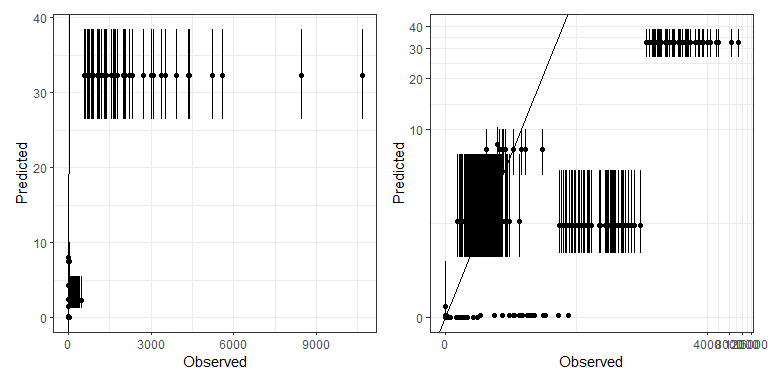
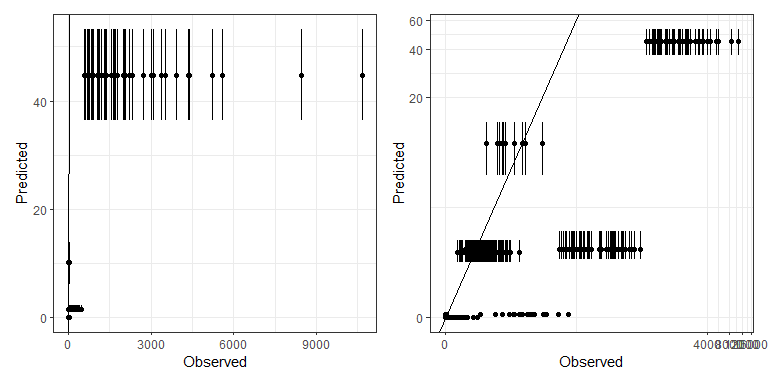
incremental update

diff --git a/analysis/soil/validation/reports/rendered/progress_report.md b/analysis/soil/validation/reports/rendered/progress_report.md
@@ -1,14 +1,17 @@
 # Soil–Litter validation progress report
 
 Lai, Hao Ran
-2026-10-07
+2026-10-16
 
-## Overview
+## Progress over the past few months
 
-- Ran the `maliau_2` scenario with VE version v0.2.1
 - Built a validation database pipeline, see docs
   [here](https://github.com/ImperialCollegeLondon/ve_data_science/blob/main/docs/validation_database.md).
 - Screened, add and harmonise datasets using the database functions.
+- I did not limit datasets to only Maliau or old growth. I included SAFE
+  and disturbed forests since we are going to need them in future
+  scenarios. The database has spatial coordinates to filter what we need
+  (can be combined with all sorts of GIS layer, including SAFE layers).
 - Most effort went into harmonisation, including units and derived
   variables.
 
@@ -22,12 +25,41 @@ library(toml)
 library(here)
 library(yardstick)
 source(here("tools/R/R/valdb.R"))
+source(here("tools/R/R/summarise_ve_config.R"))
 
 # Read the validation database
 val_db_combined <-
   open_dataset(here("data/derived/soil/validation/database_combined")) |>
   collect()
 ```
+
+## Simulation settings
+
+``` r
+out_dir <- here("data/scenarios/maliau/maliau_2/out")
+invisible(summarise_ve_config(
+  file.path(out_dir, "compiled_configuration.toml"),
+  file.path(out_dir, "logfile.log")
+))
+```
+
+- **VE version**: v0.2.3
+- **Models**: AbioticSimple, Hydrology, Animal, Plants, Soil, Litter
+- **Grid**: 10 x 10 cells
+- **Resolution**: 100 m
+- **Extent (bbox)**: xmin: 495559.3 ymin: 524298.8 xmax: 496559.3 ymax:
+  525298.8
+- **Time period**: start 2010-01-01, length 11 years, update interval 1
+  month
+- **Input files**:
+  - `era5_maliau_10x10_2010_2020.nc`
+  - `elevation_maliau_10x10.nc`
+  - `plant_input_data_maliau_2.nc`
+  - `soil_maliau.nc`
+  - `litter_maliau.nc`
+  - `animal_functional_groups_Maliau_level3.csv`
+  - `plant_pft_definitions_maliau_2.csv`
+  - `cohort_data_1_cm_maliau_2.csv`
 
 ## Datasets included
 
@@ -86,10 +118,10 @@ p_within_spatial <- val_db_combined$spatial_join_class |>
   pluck("within")
 ```
 
-I screened a total of 103 datasets or literature, and obtained 8 that
+I screened a total of 103 datasets or literature, and obtained 10 that
 can be included into the validation database. The included datasets
-contained a total of 1778 data points. 100% of data points fall within
-the simulation’s temporal range, but only 1.2% fall within the spatial
+contained a total of 3750 data points. 100% of data points fall within
+the simulation’s temporal range, but only 0.3% fall within the spatial
 extent of Maliau 2.
 
 ## Where datasets come from
@@ -176,7 +208,7 @@ is not to scale.
 
 ## Why many screened datasets are excluded / deferred
 
-The remaining 95 are split into **57 excluded** and **35 deferred** due
+The remaining 93 are split into **57 excluded** and **35 deferred** due
 to technical or scope reasons documented in the YAML `notes` field.
 
 | Group | Reason | No. datasets | Descriptions |
@@ -198,32 +230,43 @@ val_db_combined |>
     n_obs = n(),
     min_val = min(value_canonical, na.rm = TRUE),
     max_val = max(value_canonical, na.rm = TRUE),
+    # Span uses positive values only, since zeros have no log
+    oom_span = log10(max_val / min(value_canonical[value_canonical > 0])),
     .groups = "drop"
   ) |>
   arrange(desc(n_obs)) |>
+  mutate(oom_span = round(oom_span, 1)) |>
   select(
     Variable = var_canonical,
     N = n_obs,
     Unit = unit_canonical,
     Min = min_val,
-    Max = max_val
+    Max = max_val,
+    `Orders of magnitude` = oom_span
   ) |>
   kable()
 ```
 
-| Variable                       |   N | Unit     |         Min |          Max |
-|:-------------------------------|----:|:---------|------------:|-------------:|
-| total_soil_n_per_volume        | 353 | kg m^-3  |   0.4771187 | 4.819000e+02 |
-| soil_n_pool_ammonium_per_mass  | 302 | kg kg^-1 |   0.0000000 | 4.584000e-04 |
-| soil_n_pool_nitrate_per_mass   | 302 | kg kg^-1 |   0.0000000 | 2.480000e-05 |
-| soil_p_pool_labile_per_mass    | 300 | kg kg^-1 |   0.0000017 | 3.290000e-05 |
-| dissolved_phosphorus           | 297 | kg m^-3  |   0.0009088 | 4.888383e-01 |
-| total_soil_c_per_mass          |  67 | kg kg^-1 |   0.0034059 | 4.764000e+01 |
-| total_soil_n_per_mass          |  67 | kg kg^-1 |   0.0002437 | 1.770000e+00 |
-| total_soil_c_per_volume        |  56 | kg m^-3  | 584.2000000 | 1.065060e+04 |
-| total_soil_p_per_mass          |  20 | kg kg^-1 |   0.0000064 | 8.912000e-04 |
-| total_soil_c_per_area          |  11 | kg m^-2  |   2.6540000 | 2.052900e+01 |
-| soil_n_pool_inorganic_per_area |   3 | kg m^-2  |   0.0003300 | 1.930000e-03 |
+| Variable | N | Unit | Min | Max | Orders of magnitude |
+|:---|---:|:---|---:|---:|---:|
+| soil_respiration_CO2_mass | 974 | kg m-2 day-1 | -0.0097649 | 1.805760e-02 | 2.7 |
+| soil_nitrous_oxide_emission_N2O_mass | 973 | kg m-2 day-1 | -0.0000038 | 4.300000e-05 | 4.3 |
+| total_soil_n_per_volume | 353 | kg m^-3 | 0.4771187 | 4.819000e+02 | 3.0 |
+| soil_n_pool_ammonium_per_mass | 302 | kg kg^-1 | 0.0000000 | 4.584000e-04 | 5.1 |
+| soil_n_pool_nitrate_per_mass | 302 | kg kg^-1 | 0.0000000 | 2.480000e-05 | 3.9 |
+| soil_p_pool_labile_per_mass | 300 | kg kg^-1 | 0.0000017 | 3.290000e-05 | 1.3 |
+| dissolved_phosphorus | 297 | kg m^-3 | 0.0009088 | 4.888383e-01 | 2.7 |
+| total_soil_c_per_mass | 67 | kg kg^-1 | 0.0034059 | 4.764000e+01 | 4.1 |
+| total_soil_n_per_mass | 67 | kg kg^-1 | 0.0002437 | 1.770000e+00 | 3.9 |
+| total_soil_c_per_volume | 56 | kg m^-3 | 584.2000000 | 1.065060e+04 | 1.3 |
+| total_soil_p_per_mass | 20 | kg kg^-1 | 0.0000064 | 8.912000e-04 | 2.1 |
+| soil_respiration_CO2_molar | 14 | mol m-2 day-1 | 0.2090970 | 5.262030e-01 | 0.4 |
+| soil_respiration | 11 | kg m-2 day-1 | 0.0028283 | 4.085000e-03 | 0.2 |
+| total_soil_c_per_area | 11 | kg m^-2 | 2.6540000 | 2.052900e+01 | 0.9 |
+| soil_n_pool_inorganic_per_area | 3 | kg m^-2 | 0.0003300 | 1.930000e-03 | 0.8 |
+
+\*Orders of magnitude = $\log_{10}$(max / smallest positive value);
+zeros are ignored. `Inf`/`NA` means no positive values.
 
 ## Model performance
 
@@ -317,27 +360,37 @@ metrics_table |>
   kable()
 ```
 
-| var_canonical                  | rmse_relative | mae      | rmse     | ccc       |
-|:-------------------------------|:--------------|:---------|:---------|:----------|
-| dissolved_phosphorus           | 7.57%         | 0.0119   | 0.0321   | -1.54e-05 |
-| soil_n_pool_ammonium_per_mass  | 71.50%        | 0.000326 | 0.000328 | 0.000336  |
-| soil_n_pool_inorganic_per_area | 9446.02%      | 0.141    | 0.141    | 0         |
-| soil_n_pool_nitrate_per_mass   | 14.75%        | 2.3e-06  | 3.65e-06 | 0.00208   |
-| soil_p_pool_labile_per_mass    | 22.24%        | 6.13e-06 | 6.94e-06 | 0         |
-| total_soil_c_per_area          | 27.23%        | 0.421    | 0.491    | -0.0182   |
-| total_soil_c_per_mass          | 19.85%        | 0.742    | 1.38     | -0.000697 |
-| total_soil_c_per_volume        | 27.90%        | 3.87     | 3.93     | 0         |
-| total_soil_n_per_mass          | 24.63%        | 0.153    | 0.301    | 6.04e-06  |
-| total_soil_n_per_volume        | 14.94%        | 0.777    | 1.5      | -0.0179   |
-| total_soil_p_per_mass          | 27.25%        | 0.000215 | 0.000241 | 0         |
+| var_canonical | rmse_relative | mae | rmse | ccc |
+|:---|:---|:---|:---|:---|
+| dissolved_phosphorus | 7.57% | 0.0119 | 0.0321 | -2.71e-08 |
+| soil_n_pool_ammonium_per_mass | 8.56% | 8.33e-06 | 3.92e-05 | 8.72e-05 |
+| soil_n_pool_inorganic_per_area | 64.36% | 0.00079 | 0.00103 | 0 |
+| soil_n_pool_nitrate_per_mass | 13.92% | 2.13e-06 | 3.45e-06 | -0.0204 |
+| soil_nitrous_oxide_emission_N2O_mass | 8.56% | 2.51e-06 | 4e-06 | -4.38e-05 |
+| soil_p_pool_labile_per_mass | 13.01% | 2.88e-06 | 4.06e-06 | 0 |
+| soil_respiration | 293.88% | 0.00367 | 0.00369 | 0 |
+| soil_respiration_CO2_mass | 13.95% | 0.00316 | 0.00387 | -3.16e-05 |
+| soil_respiration_CO2_molar | 136.51% | 0.345 | 0.355 | -2.35e-37 |
+| total_soil_c_per_area | 30.70% | 0.534 | 0.611 | 0 |
+| total_soil_c_per_mass | 19.84% | 0.747 | 1.37 | -0.00138 |
+| total_soil_c_per_volume | 27.81% | 3.55 | 3.62 | 0 |
+| total_soil_n_per_mass | 24.65% | 0.153 | 0.301 | -3.23e-05 |
+| total_soil_n_per_volume | 14.99% | 0.908 | 1.62 | 0.0169 |
+| total_soil_p_per_mass | 23.17% | 0.000152 | 0.000205 | 0 |
 
 **Summary by metric:**
 
 | Metric | Best | Worst |
 |:---|:---|:---|
-| rmse_relative | dissolved_phosphorus (0.0757) | soil_n_pool_inorganic_per_area (94.5) |
-| mae | soil_n_pool_nitrate_per_mass (2.3e-06) | total_soil_c_per_volume (3.87) |
-| rmse | soil_n_pool_nitrate_per_mass (3.65e-06) | total_soil_c_per_volume (3.93) |
-| ccc | soil_n_pool_nitrate_per_mass (0.00208) | total_soil_c_per_area (-0.0182) |
+| rmse_relative | dissolved_phosphorus (0.0757) | soil_respiration (2.94) |
+| mae | soil_n_pool_nitrate_per_mass (2.13e-06) | total_soil_c_per_volume (3.55) |
+| rmse | soil_n_pool_nitrate_per_mass (3.45e-06) | total_soil_c_per_volume (3.62) |
+| ccc | total_soil_n_per_volume (0.0169) | soil_n_pool_nitrate_per_mass (-0.0204) |
 
 Best and worst performers by metric
+
+## Afterthoughts
+
+- If we need more validation data, we could split the datasets used for
+
+## input data into training and testing sets (reminder from Jacob)

diff --git a/analysis/soil/validation/reports/progress_report.md b/analysis/soil/validation/reports/progress_report.md
@@ -11,7 +11,7 @@ jupyter:
     display_name: Python 3 (ipykernel)
     language: python
     name: python3
-    path: C:\Users\User\AppData\Local\Python\pythoncore-3.14-64\share\jupyter\kernels\python3
+    path: C:\Users\User\Documents\ve_data_science\.venv\share\jupyter\kernels\python3
 title: "Soil--Litter validation progress report"
 author: Lai, Hao Ran
 date: last-modified
@@ -21,11 +21,15 @@ execute:
   message: false
 ---
 
-## Overview
+## Progress over the past few months
 
-- Ran the `maliau_2` scenario with VE version v0.2.1
-- Built a validation database pipeline, see docs [here](https://github.com/ImperialCollegeLondon/ve_data_science/blob/main/docs/validation_database.md).
+- Built a validation database pipeline, see docs
+  [here](https://github.com/ImperialCollegeLondon/ve_data_science/blob/main/docs/validation_database.md).
 - Screened, add and harmonise datasets using the database functions.
+- I did not limit datasets to only Maliau or old growth. I included SAFE and
+  disturbed forests since we are going to need them in future scenarios. The
+  database has spatial coordinates to filter what we need (can be combined with
+  all sorts of GIS layer, including SAFE layers).
 - Most effort went into harmonisation, including units and derived variables.
 
 ```text {r}
@@ -40,11 +44,25 @@ library(toml)
 library(here)
 library(yardstick)
 source(here("tools/R/R/valdb.R"))
+source(here("tools/R/R/summarise_ve_config.R"))
 
 # Read the validation database
 val_db_combined <-
   open_dataset(here("data/derived/soil/validation/database_combined")) |>
   collect()
+```
+
+## Simulation settings
+
+```text {r}
+#| label: ve-config
+#| results: asis
+
+out_dir <- here("data/scenarios/maliau/maliau_2/out")
+invisible(summarise_ve_config(
+  file.path(out_dir, "compiled_configuration.toml"),
+  file.path(out_dir, "logfile.log")
+))
 ```
 
 ## Datasets included
@@ -105,7 +123,12 @@ p_within_spatial <- val_db_combined$spatial_join_class |>
   pluck("within")
 ```
 
-I screened a total of `r n_screened` datasets or literature, and obtained `r n_datasets` that can be included into the validation database. The included datasets contained a total of `r n_data` data points. `r round(p_within_temporal*100, 1)`% of data points fall within the simulation's temporal range, but only `r round(p_within_spatial*100, 1)`% fall within the spatial extent of Maliau 2.
+I screened a total of `r n_screened` datasets or literature, and obtained
+`r n_datasets` that can be included into the validation database. The included
+datasets contained a total of `r n_data` data points.
+`r round(p_within_temporal*100, 1)`% of data points fall within the simulation's
+temporal range, but only `r round(p_within_spatial*100, 1)`% fall within the
+spatial extent of Maliau 2.
 
 ## Where datasets come from
 
@@ -187,15 +210,17 @@ ggmap::ggmap(basemap) +
   theme(axis.title = element_blank())
 ```
 
-Validation data locations relative to the Maliau 2 scenario site. The Maliau 2 indicator is shown as a square marker greatly exaggerated and is not to scale.
+Validation data locations relative to the Maliau 2 scenario site. The Maliau 2
+indicator is shown as a square marker greatly exaggerated and is not to scale.
 
 ## Why many screened datasets are excluded / deferred
 
-The remaining `r n_screened_not_in_db` are split into **`r n_excluded` excluded** and **`r n_deferred` deferred**
-due to technical or scope reasons documented in the YAML `notes` field.
+The remaining `r n_screened_not_in_db` are split into
+**`r n_excluded` excluded** and **`r n_deferred` deferred** due to technical or
+scope reasons documented in the YAML `notes` field.
 
 | Group | Reason | No. datasets | Descriptions |
-|---|---|---:|---|
+| --- | --- | ---: | --- |
 | Excluded | No relevant variables | `r n_excluded_no_relevant_variables` | No soil or litter measurements match validation targets. Examples include taxonomic records without quantitative data, compositional data without C/N values, and measurements that cannot be converted to the needed pool or mass terms. |
 | Excluded | Insufficient metadata | `r n_excluded_insufficient_metadata` | e.g., Litter biomass is present, but the record lacks enough context to derive a carbon pool. |
 | Excluded | Duplicate source | `r n_excluded_duplicate_source` | The same data already used for input data. |
@@ -214,18 +239,25 @@ val_db_combined |>
     n_obs = n(),
     min_val = min(value_canonical, na.rm = TRUE),
     max_val = max(value_canonical, na.rm = TRUE),
+    # Span uses positive values only, since zeros have no log
+    oom_span = log10(max_val / min(value_canonical[value_canonical > 0])),
     .groups = "drop"
   ) |>
   arrange(desc(n_obs)) |>
+  mutate(oom_span = round(oom_span, 1)) |>
   select(
     Variable = var_canonical,
     N = n_obs,
     Unit = unit_canonical,
     Min = min_val,
-    Max = max_val
+    Max = max_val,
+    `Orders of magnitude` = oom_span
   ) |>
   kable()
 ```
+
+*Orders of magnitude = $\log_{10}$(max / smallest positive value); zeros are
+ignored. `Inf`/`NA` means no positive values.
 
 ## Model performance
 
@@ -233,7 +265,8 @@ val_db_combined |>
 
 Now the actual validation itself.
 
-Plotting the predicted vs. observed: original scale and log--log scale. (Actually it's `log1p` or $\log(1+x)$ for accommodate for zeros.)
+Plotting the predicted vs. observed: original scale and log--log scale.
+(Actually it's `log1p` or $\log(1+x)$ for accommodate for zeros.)
 
 ```text {r}
 #| label: predicted-observed
@@ -269,15 +302,21 @@ patchwork::wrap_plots(p1, p2)
 
 ### Performance metrics
 
-Most raw-scale metrics are not good for cross-variable comparison because units and scales are not comparable. Our variables rarely conform to a Normal distribution:
+Most raw-scale metrics are not good for cross-variable comparison because units
+and scales are not comparable. Our variables rarely conform to a Normal
+distribution:
 
 - Contains zeros
 - Right skewed due to positive boundedness
 - Vary widely in scale and unit of measurement
-- *Rare but it happens*: some variable's values are always the same (due to limited spatiotemporal range or the way they aggregate/marginalise outputs to match empirical data); these constant data cannot use some variance-based metrics such as $R^2$
+- *Rare but it happens*: some variable's values are always the same (due to
+  limited spatiotemporal range or the way they aggregate/marginalise outputs to
+  match empirical data); these constant data cannot use some variance-based
+  metrics such as $R^2$
 
-`rmse_relative()` is the main cross-variable metric here because it is unitless (with its own caveats).
-As a skew-robust sensitivity check, we also compute `mae()`, `rmse()` and `ccc()` after a `log1p()` transform.
+`rmse_relative()` is the main cross-variable metric here because it is unitless
+(with its own caveats). As a skew-robust sensitivity check, we also compute
+`mae()`, `rmse()` and `ccc()` after a `log1p()` transform.
 
 ```text {r}
 #| label: performance-metrics
@@ -359,3 +398,9 @@ tibble::tibble(
 ) |>
   kable(caption = "Best and worst performers by metric")
 ```
+
+## Afterthoughts
+
+- If we need more validation data, we could split the datasets used for input
+
+## data into training and testing sets (reminder from Jacob)
